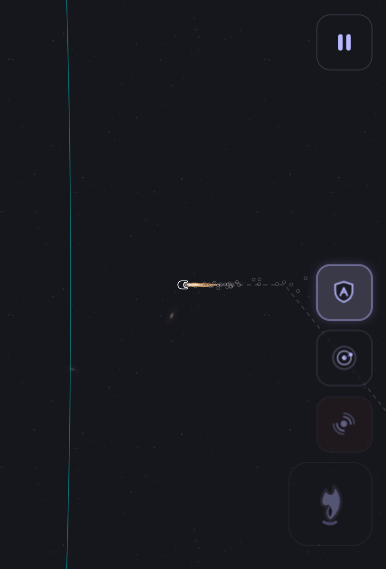
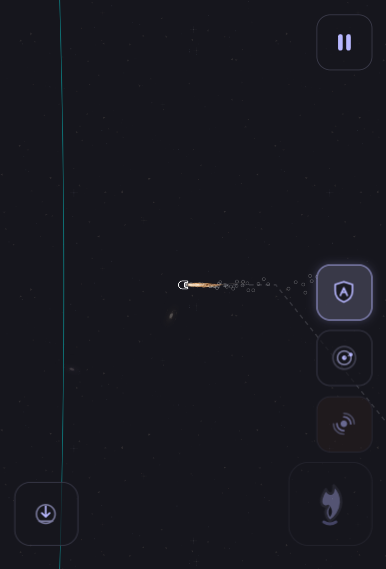
Batch 6 fix15: safe engage wins physics (brake entry with swing dwell, 3.2 yaw), autopilot never touches player boost, ship-anchored stick bars now near/far rings thin, void cone proportional fade, smooth dashed bounds+border softening, big opaque radar labels deep-zoom only, WAD/steering fine-tunin

diff --git a/src/app/MainActivity15.ts b/src/app/MainActivity15.ts
@@ -919,8 +919,10 @@ export function MainActivity15(topText: HTMLElement, bottomText: HTMLElement,
         // two concentric invisible rings around the ship: the near bar (ship
         // heading, button color) and the far bar (stick, white). Directed
         // collinearly they dock into one perfect line = straight flight.
-        const ringNear = 30 * dpr;
-        const ringFar = 46 * dpr;
+        // THIN and SHORT (user 2026-11-09), close to the hull, docking
+        // tight (user 2026-11-09).
+        const ringNear = 25 * dpr;
+        const ringFar = 40 * dpr;
         const tick = (ring: number, ang: number, color: string) => {
             context.save();
             context.translate(sx + Math.cos(ang) * ring, sy + Math.sin(ang) * ring);
@@ -928,7 +930,7 @@ export function MainActivity15(topText: HTMLElement, bottomText: HTMLElement,
             context.fillStyle = color;
             context.globalAlpha = stickBarsAlpha * 0.95;
             context.beginPath();
-            context.roundRect(-16 * dpr, -3.2 * dpr, 32 * dpr, 6.4 * dpr, 3.2 * dpr);
+            context.roundRect(-6 * dpr, -1.2 * dpr, 12 * dpr, 2.4 * dpr, 1.2 * dpr);
             context.fill();
             context.restore();
         };
@@ -2235,10 +2237,13 @@ export function MainActivity15(topText: HTMLElement, bottomText: HTMLElement,
         // OR (b) braking is ALREADY insufficient — must act NOW (evasion).
         const dv = Math.max(0, spd0 - 500);
         const brakeDist = (dv * dv) / (2 * Math.max(1, ship.profile.engineAccel));
-        // start SHORT of the ragged edge: 60% margin (turning dwell eats the
-        // rest — a retro brake needs ~0.5-1s to swing the nose around).
-        const brakingSaves = brakeDist <= t.tti * spd0 * 0.6;
-        if (t.tti > 2.0 && brakingSaves) return;
+        // Full brake start ≈ braking time to 500 + nose swing dwell. The
+        // LATEST survivable moment: engage then; before that the player
+        // keeps the warning for themselves (last seconds, like promised).
+        const impactDist = t.tti * spd0;
+        const dwell = 900; // nose swing eats ~0.5-1s of margin
+        const brakingSaves = brakeDist + dwell <= impactDist * 0.85;
+        if (t.tti > 4.0 && brakingSaves) return;
         const mode: "brake" | "evade" = brakingSaves ? "brake" : "evade";
         safeMode = mode;
         setSafeHold(true);

diff --git a/index.html b/index.html
@@ -177,6 +177,35 @@
       transform: translateX(-50%) translateY(0);
     }
 
+    /* Landing assist button (user 2026-11-09): bottom-left, thumb range. */
+    #landButton {
+      position: fixed;
+      left: calc(14px + var(--safe-left));
+      bottom: calc(24px + var(--safe-bottom));
+      width: 64px;
+      height: 64px;
+      padding: 0;
+      display: flex;
+      align-items: center;
+      justify-content: center;
+      background: rgba(22, 22, 29, 0.72);
+      border: 1px solid var(--color-Eigengrau3);
+      border-radius: 16px;
+      cursor: pointer;
+      z-index: 40;
+      transition: background 0.15s, border-color 0.15s, box-shadow 0.15s, opacity 0.15s;
+      -webkit-tap-highlight-color: transparent;
+    }
+    #landButton:disabled {
+      opacity: 0.35;
+      cursor: not-allowed;
+    }
+    #landButton.armed {
+      border-color: #9ED8A4;
+      box-shadow: 0 0 12px rgba(110, 200, 130, 0.3);
+    }
+    #landButton svg { display: block; }
+
     /* Boost burner: the ONE enlarged action button (user 2026-11-09: 84px,
        1.5Г— the other buttons) вЂ” primary gesture, thumb-reachable in the
        bottom-right corner, same monochrome geometry language as pause. */
@@ -1007,6 +1036,18 @@
     <svg width="32" height="32" viewBox="0 0 22 22" xmlns="http://www.w3.org/2000/svg" aria-hidden="true">
       <rect x="6.6" y="5.4" width="3.2" height="11.2" rx="1.6" fill="#B7B7FF" />
       <rect x="12.2" y="5.4" width="3.2" height="11.2" rx="1.6" fill="#B7B7FF" />
+    </svg>
+  </button>
+
+  <!-- Landing / interaction (user 2026-11-09): appears near a body; the
+       tap runs a smooth AUTOMATIC touchdown (brake, approach, descend).
+       Takes over like the safety shield while running. -->
+  <button id="landButton" type="button" aria-label="Land">
+    <svg width="26" height="26" viewBox="0 0 24 24" xmlns="http://www.w3.org/2000/svg" aria-hidden="true">
+      <circle cx="12" cy="12" r="8.6" fill="none" stroke="#7A7A9E" stroke-width="1.4"/>
+      <path d="M12 5 V14" stroke="#B7B7FF" stroke-width="1.6" stroke-linecap="round"/>
+      <path d="M8.4 11 L12 14.6 L15.6 11" fill="none" stroke="#B7B7FF" stroke-width="1.6" stroke-linecap="round" stroke-linejoin="round"/>
+      <line x1="6" y1="18.6" x2="18" y2="18.6" stroke="#7A7A9E" stroke-width="1.6" stroke-linecap="round"/>
     </svg>
   </button>
 
